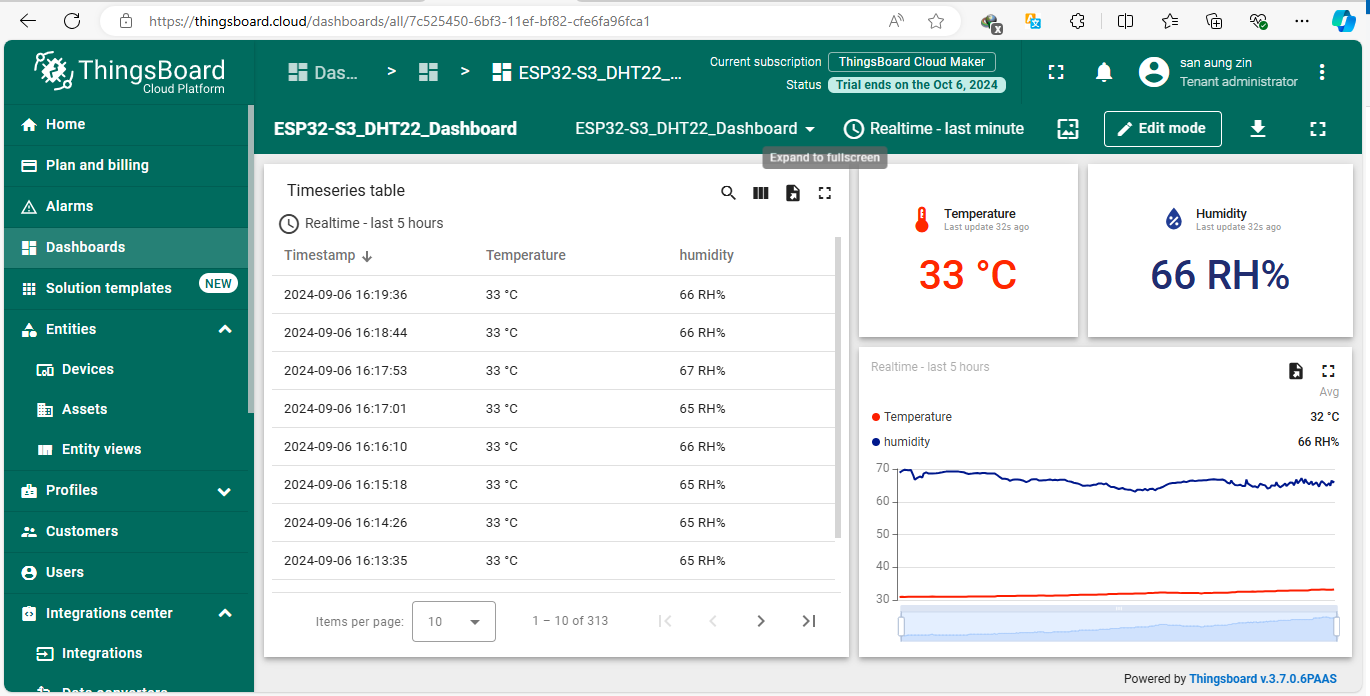
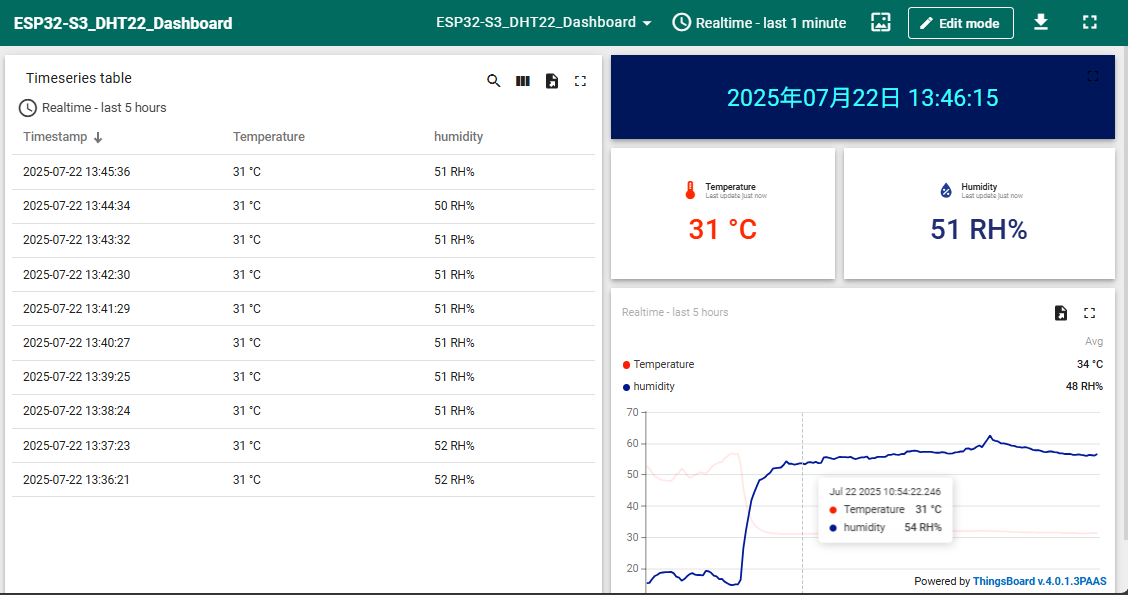
Update photos

diff --git a/src/main.cpp b/src/main.cpp
@@ -11,10 +11,10 @@
 DHT dht(DHTPIN, DHTTYPE);
 HTTPClient http;
 
-const char* ssid = "TP-Link_5E23";
-const char* password = "44379698";
+const char* ssid = "TP-Link_60_502";
+const char* password = "isgm1234";
 const char* serverUrl =
-    "https://thingsboard.cloud/api/v1/integrations/http/08dfa9c0-664f-da36-26e9-ad54e00d7404";
+    "https://thingsboard.cloud/api/v1/integrations/http/503e1217-f54a-be56-42e5-7e56040f91c0";
 
 void setup()
 {
@@ -33,7 +33,7 @@ void setup()
 
 void loop()
 {
-  delay(50000);
+  delay(60000);
 
   float humidity = dht.readHumidity();
   float temperature = dht.readTemperature();
